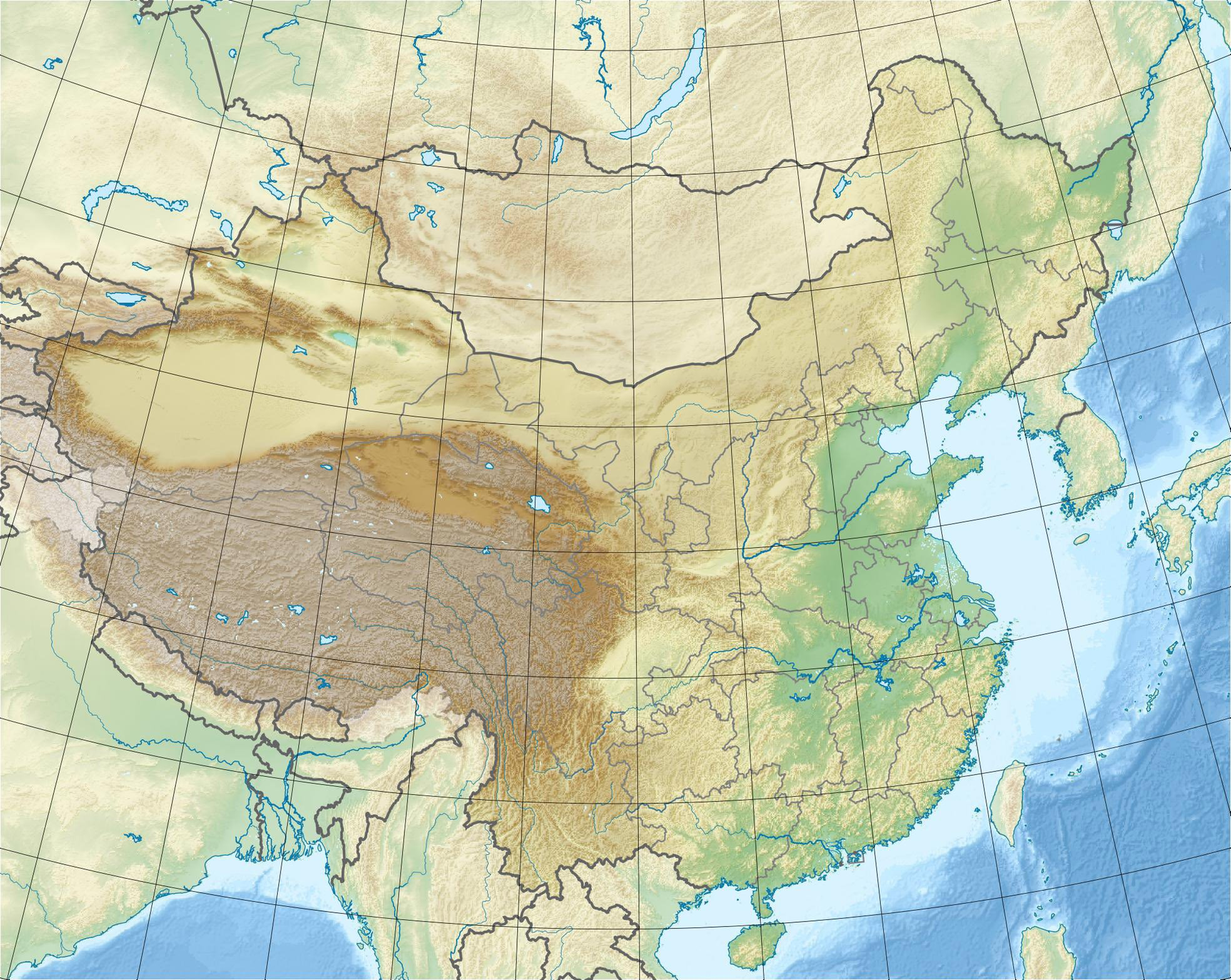
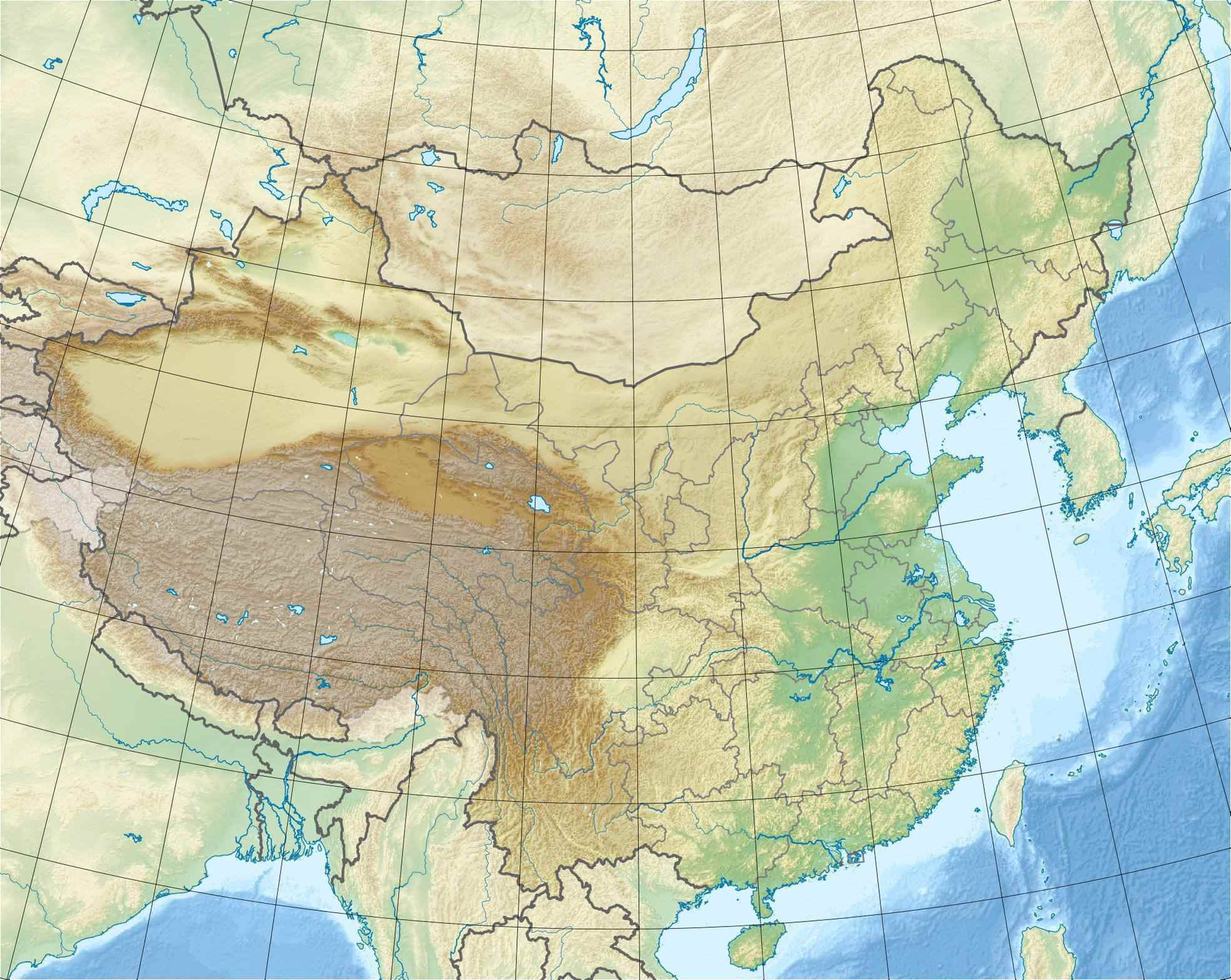
perf(map2d): compress China relief + WebP for Map2D LCP (#7)
Re-encode display relief at 1968×1567 (JPEG q38 ~293KB, WebP q48 ~279KB)
and load WebP via <picture> with JPG fallback for default 三國 Map2D LCP.

diff --git a/src/components/Map2D.tsx b/src/components/Map2D.tsx
@@ -212,12 +212,24 @@ export function Map2D() {
         onPointerCancel={onPointerUp}
       >
         <div className="map-2d__zoom-layer" style={layerStyle}>
-          <img
-            className="map-2d__basemap"
-            src={basemap.src}
-            alt={basemap.title}
-            draggable={false}
-          />
+          {basemap.srcWebp ? (
+            <picture>
+              <source type="image/webp" srcSet={basemap.srcWebp} />
+              <img
+                className="map-2d__basemap"
+                src={basemap.src}
+                alt={basemap.title}
+                draggable={false}
+              />
+            </picture>
+          ) : (
+            <img
+              className="map-2d__basemap"
+              src={basemap.src}
+              alt={basemap.title}
+              draggable={false}
+            />
+          )}
           <svg
             className="map-2d__overlay"
             viewBox={`0 0 ${BASEMAP_WIDTH} ${BASEMAP_HEIGHT}`}

diff --git a/src/data/historicalBasemaps.ts b/src/data/historicalBasemaps.ts
@@ -7,7 +7,10 @@ export interface HistoricalBasemap {
   id: string
   /** Apply when year is >= this and before next map */
   fromYear: number
+  /** JPEG fallback (all browsers) */
   src: string
+  /** Optional WebP; Map2D serves via `<picture>` when set */
+  srcWebp?: string
   title: string
   credit: string
   license: string
@@ -26,6 +29,7 @@ export const HISTORICAL_BASEMAPS: HistoricalBasemap[] = [
     fromYear: -770,
     /** 顯示用 1968×1567（州格座標）；原檔 7872×6268 解碼過慢 */
     src: `${base}maps/china_edcp_relief_display.jpg`,
+    srcWebp: `${base}maps/china_edcp_relief_display.webp`,
     title: '現代東亞地勢（各時代共用）',
     credit: '維基共享資源〈China edcp relief location map.jpg〉· Uwe Dedering',
     license: 'CC BY-SA 3.0',

diff --git a/src/App.css b/src/App.css
@@ -419,6 +419,12 @@ html[data-theme='light'] .app-footer {
   pointer-events: none;
 }
 
+.map-2d__zoom-layer picture {
+  display: block;
+  width: 100%;
+  height: 100%;
+}
+
 .map-2d__overlay {
   position: absolute;
   inset: 0;
